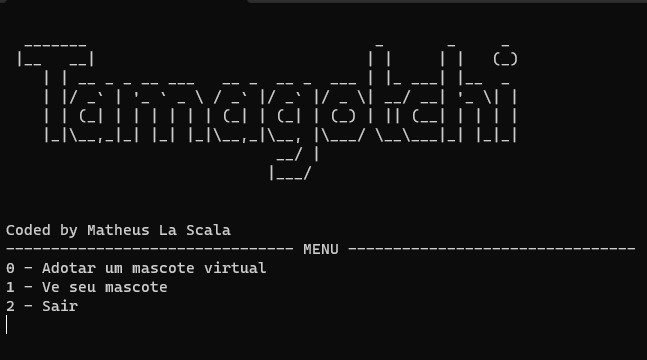
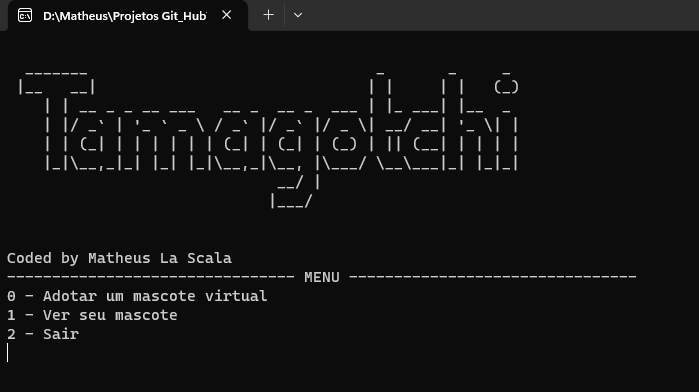
Correção de Bug 01 - Mensagem no menu.

diff --git a/View/MascoteView.cs b/View/MascoteView.cs
@@ -37,7 +37,7 @@ namespace PokéGotchi.View
         {
             Console.WriteLine("-------------------------------- MENU --------------------------------");
             Console.WriteLine($"{(int)MenuOpc.ADOTAR_MASCOTE} - Adotar um mascote virtual");
-            Console.WriteLine($"{(int)MenuOpc.VER_MASCOTE_ADOTADO} - Ve seu mascote");
+            Console.WriteLine($"{(int)MenuOpc.VER_MASCOTE_ADOTADO} - Ver seu mascote");
             Console.WriteLine($"{(int)MenuOpc.SAIR} - Sair");
         }
         public static void ExibeMenuAdocao()
